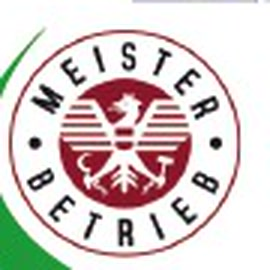
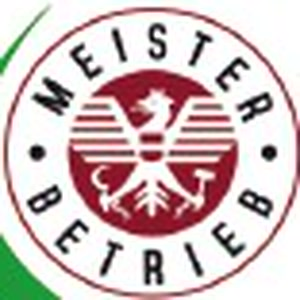
Barrierefreiheit auf 100, Siegel mittig, ein Formular statt zwei
Die 96 kamen aus zwei Prüfungen, die meine eigenen Messungen nicht
erfassten. Statt weiter zu raten habe ich axe-core — die Maschine hinter
der Messung — direkt auf der Seite laufen lassen.

- Kontrast, 17 Stellen: axe kann einen Schleier, der als eigenes Element
  darüberliegt, nicht zuordnen. Es geht vom Text nach oben, findet als
  erste feste Farbe das Weiß der Seite und meldet "weiß auf weiß" —
  obwohl dunkles Indigo darunterliegt. Der Abschnitt trägt die dunkle
  Farbe jetzt selbst. Sichtbar ändert sich nichts, aber der Baum sagt
  nun, was zu sehen ist.
- Landmarke, 1 Stelle: die schwebenden Kontaktknöpfe lagen in einem
  <div> außerhalb jeder Landmarke. Jetzt ein <nav> mit eigenem Namen —
  es sind zwei Kontaktwege, also eine Navigation. Das Hauptmenü hat
  dafür auch einen Namen bekommen.

Das Siegel saß schief, weil ich seine Mitte geschätzt hatte. Jetzt
gemessen: alle deutlich roten Bildpunkte gesucht, daraus Mitte (109,157)
und Radius (37) bestimmt und exakt darauf beschnitten.

Der Rechnerabschnitt fällt weg. Beide Formulare fragten dasselbe — im
Textfeld des unteren steht wörtlich "Fläche, Turnus, Besonderheiten" —,
und ausgerechnet der obere sammelte keine E-Mail-Adresse, also nichts,
womit man antworten kann. Seine zwei nützlichen Angaben, Fläche und
Turnus, sind als Auswahlfelder ins Kontaktformular gewandert. Die Knöpfe,
die auf ihn zeigten, führen jetzt dorthin.

diff --git a/client/src/components/ContactSection.tsx b/client/src/components/ContactSection.tsx
@@ -9,6 +9,8 @@ export default function ContactSection({ prefilledService }: { prefilledService?
     email: "",
     phone: "",
     service: prefilledService || "Unterhaltsreinigung",
+    flaeche: "",
+    turnus: "",
     message: "",
     isApplication: false,
   });
@@ -245,6 +247,51 @@ export default function ContactSection({ prefilledService }: { prefilledService?
                     </select>
                   </div>
                 </div>
+
+                {/* Fläche und Turnus — kamen vom früheren Rechnerabschnitt
+                    hierher. Als Auswahl statt als Freitext, weil sich damit
+                    die Besichtigung planen lässt. Bei einer Bewerbung sind
+                    sie ohne Bedeutung und bleiben weg. */}
+                {!formData.isApplication && (
+                  <div className="grid grid-cols-1 sm:grid-cols-2 gap-4">
+                    <div>
+                      <label className="block text-xs font-bold text-slate-700 uppercase tracking-wider mb-1">
+                        Ungefähre Fläche
+                      </label>
+                      <select
+                        aria-label="Ungefähre Fläche"
+                        value={formData.flaeche}
+                        onChange={(e) => setFormData({ ...formData, flaeche: e.target.value })}
+                        className="w-full bg-slate-50 border border-slate-200 rounded-xl px-4 py-2.5 text-sm text-slate-900 focus:ring-2 focus:ring-[#122272] outline-none"
+                      >
+                        <option value="">Bitte wählen</option>
+                        <option value="bis 100 m²">bis 100 m²</option>
+                        <option value="100 bis 300 m²">100 – 300 m²</option>
+                        <option value="300 bis 1000 m²">300 – 1000 m²</option>
+                        <option value="über 1000 m²">über 1000 m²</option>
+                        <option value="weiß ich nicht">weiß ich nicht</option>
+                      </select>
+                    </div>
+                    <div>
+                      <label className="block text-xs font-bold text-slate-700 uppercase tracking-wider mb-1">
+                        Wie oft
+                      </label>
+                      <select
+                        aria-label="Gewünschter Turnus"
+                        value={formData.turnus}
+                        onChange={(e) => setFormData({ ...formData, turnus: e.target.value })}
+                        className="w-full bg-slate-50 border border-slate-200 rounded-xl px-4 py-2.5 text-sm text-slate-900 focus:ring-2 focus:ring-[#122272] outline-none"
+                      >
+                        <option value="">Bitte wählen</option>
+                        <option value="einmalig">einmalig</option>
+                        <option value="wöchentlich">wöchentlich</option>
+                        <option value="14-tägig">14-tägig</option>
+                        <option value="mehrmals pro Woche">mehrmals pro Woche</option>
+                        <option value="noch offen">noch offen</option>
+                      </select>
+                    </div>
+                  </div>
+                )}
 
                 <div>
                   <label className="block text-xs font-bold text-slate-700 uppercase tracking-wider mb-1">

diff --git a/client/src/pages/Home.tsx b/client/src/pages/Home.tsx
@@ -6,7 +6,6 @@ import MeisterSection from "@/components/MeisterSection";
 import ServicesSection from "@/components/ServicesSection";
 import { CKR_INFO } from "@/data/ckrData";
 import AboutSection from "@/components/AboutSection";
-import PriceEstimator from "@/components/PriceEstimator";
 import ReviewsAndFaq from "@/components/ReviewsAndFaq";
 import ContactSection from "@/components/ContactSection";
 import { MessageCircle, Phone } from "lucide-react";
@@ -15,8 +14,8 @@ import { CKR_INFO } from "@/data/ckrData";
 export default function Home() {
   const [prefilledService, setPrefilledService] = useState<string>("Unterhaltsreinigung");
 
-  const scrollToCalculator = () => {
-    const el = document.getElementById("kalkulator");
+  const zumFormular = () => {
+    const el = document.getElementById("kontakt");
     if (el) {
       el.scrollIntoView({ behavior: "smooth" });
     }
@@ -33,11 +32,11 @@ export default function Home() {
   return (
     <div className="min-h-screen flex flex-col bg-[#fbfcfd] text-[#0f172a] selection:bg-emerald-100 selection:text-emerald-900">
       {/* Header with Navigation and 24h Topbar */}
-      <Header onOpenCalculator={scrollToCalculator} />
+      <Header onAngebotAnfordern={zumFormular} />
 
       {/* Main Content Area */}
       <main className="flex-1">
-        <HeroSection onOpenCalculator={scrollToCalculator} />
+        <HeroSection onAngebotAnfordern={zumFormular} />
         <MeisterSection />
         <ServicesSection onSelectService={handleSelectService} />
 
@@ -60,7 +59,6 @@ export default function Home() {
           seite="rechts"
         />
         <AboutSection />
-        <PriceEstimator />
         <ReviewsAndFaq />
       </main>
 
@@ -68,7 +66,7 @@ export default function Home() {
       <ContactSection prefilledService={prefilledService} />
 
       {/* Floating Action Buttons (Sticky Quick Contacts for Mobile & Desktop) */}
-      <div className="fixed bottom-5 right-5 z-40 flex flex-col gap-2.5">
+      <nav aria-label="Schnellkontakt" className="fixed bottom-5 right-5 z-40 flex flex-col gap-2.5">
         <a
           href={`https://wa.me/436508933881?text=Hallo%20CKR%20Cleaning%20Services,%20ich%20benötige%20ein%20Angebot.`}
           target="_blank"
@@ -88,7 +86,7 @@ export default function Home() {
         >
           <Phone className="w-6 h-6 text-[#2E7D0E]" />
         </a>
-      </div>
+      </nav>
     </div>
   );
 }

diff --git a/client/src/components/Header.tsx b/client/src/components/Header.tsx
@@ -2,7 +2,7 @@ import { useState, useEffect } from "react";
 import { Phone, Mail, Clock, Menu, X, ArrowRight, ShieldCheck } from "lucide-react";
 import { CKR_INFO } from "@/data/ckrData";
 
-export default function Header({ onOpenCalculator }: { onOpenCalculator: () => void }) {
+export default function Header({ onAngebotAnfordern }: { onAngebotAnfordern: () => void }) {
   const [isScrolled, setIsScrolled] = useState(false);
   const [mobileMenuOpen, setMobileMenuOpen] = useState(false);
 
@@ -19,7 +19,6 @@ export default function Header({ onOpenCalculator }: { onOpenCalculator: () => v
     { name: "Leistungen", href: "#leistungen" },
     { name: "Meisterbetrieb", href: "#meisterbetrieb" },
     { name: "Über Uns", href: "#ueber-uns" },
-    { name: "Preiskalkulator", href: "#kalkulator" },
     { name: "Ausbildung & Jobs", href: "#karriere" },
     { name: "Kundenstimmen", href: "#bewertungen" },
     { name: "Kontakt", href: "#kontakt" },
@@ -62,6 +61,7 @@ export default function Header({ onOpenCalculator }: { onOpenCalculator: () => v
 
       {/* Main Navigation Bar */}
       <nav
+        aria-label="Hauptmenü"
         className={`transition-all duration-200 ${
           isScrolled
             ? "bg-[#0c164a]/95 backdrop-blur-md shadow-lg py-3"
@@ -104,7 +104,7 @@ export default function Header({ onOpenCalculator }: { onOpenCalculator: () => v
           {/* Action Button */}
           <div className="hidden sm:flex items-center gap-3">
             <button
-              onClick={onOpenCalculator}
+              onClick={onAngebotAnfordern}
               type="button"
               className="bg-[#2E7D0E] hover:bg-[#256A0B] text-white text-xs sm:text-sm font-semibold px-4 sm:px-5 py-2.5 rounded-lg shadow-sm hover:shadow transition-all flex items-center gap-2 active:scale-95"
             >
@@ -161,7 +161,7 @@ export default function Header({ onOpenCalculator }: { onOpenCalculator: () => v
                 <button
                   onClick={() => {
                     setMobileMenuOpen(false);
-                    onOpenCalculator();
+                    onAngebotAnfordern();
                   }}
                   className="w-full bg-[#122272] text-white font-semibold py-3 rounded-lg flex items-center justify-center gap-2 shadow"
                 >

diff --git a/client/src/components/HeroSection.tsx b/client/src/components/HeroSection.tsx
@@ -1,7 +1,7 @@
 import { ArrowRight, Phone, CheckCircle2 } from "lucide-react";
 import { CKR_INFO } from "@/data/ckrData";
 
-export default function HeroSection({ onOpenCalculator }: { onOpenCalculator: () => void }) {
+export default function HeroSection({ onAngebotAnfordern }: { onAngebotAnfordern: () => void }) {
   const zusagen = [
     "Kostenlose Besichtigung, danach Festpreis",
     "24h erreichbar, auch bei Havarie",
@@ -10,7 +10,7 @@ export default function HeroSection({ onOpenCalculator }: { onOpenCalculator: ()
   ];
 
   return (
-    <section id="top" className="relative isolate overflow-hidden">
+    <section id="top" className="relative isolate overflow-hidden bg-[#070d2e]">
       {/* Die Aufnahme füllt die Fläche; darüber liegt ein kräftiger
           Schleier, damit die Schrift sicher lesbar bleibt. */}
       <div
@@ -53,7 +53,7 @@ export default function HeroSection({ onOpenCalculator }: { onOpenCalculator: ()
 
           <div className="mt-10 flex flex-wrap items-center gap-4">
             <button
-              onClick={onOpenCalculator}
+              onClick={onAngebotAnfordern}
               type="button"
               className="inline-flex items-center gap-2 rounded-lg bg-[#2E7D0E] px-6 py-3.5 text-sm sm:text-base font-semibold text-white transition hover:bg-[#256A0B] active:scale-95"
             >

diff --git a/client/src/components/ServicesSection.tsx b/client/src/components/ServicesSection.tsx
@@ -198,7 +198,7 @@ export default function ServicesSection({ onSelectService }: { onSelectService?:
                       <span>Jetzt anrufen</span>
                     </a>
                     <a
-                      href="#kalkulator"
+                      href="#kontakt"
                       onClick={() => setActiveModal(null)}
                       className="flex-1 sm:flex-none bg-[#122272] hover:bg-[#0c164a] text-white text-xs font-bold px-4 py-2.5 rounded-xl text-center"
                     >

diff --git a/client/src/components/BandSection.tsx b/client/src/components/BandSection.tsx
@@ -36,7 +36,7 @@ export default function BandSection({
   const rechts = seite === "rechts";
 
   return (
-    <section id={id} className="relative isolate overflow-hidden">
+    <section id={id} className="relative isolate overflow-hidden bg-[#070d2e]">
       <div
         aria-hidden="true"
         className="absolute inset-0 -z-20 bg-cover bg-center"
